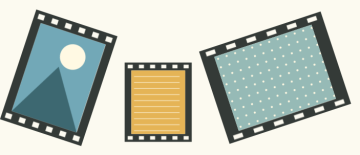
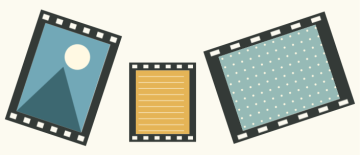
Check every method example for visible bounds

diff --git a/tests/creation-library.test.js b/tests/creation-library.test.js
@@ -49,6 +49,21 @@ for(const template of templateCatalog.templates)test('template compiles through 
 for(const method of techniqueCatalog.methods)test('technique transaction is executable: '+method.id,async()=>{
  const {parameters,before}=techniqueExample(method),doc=await document(exampleMaterials),compiled=compileTechnique({methodId:method.id,parameters,materials:exampleMaterials});
  const result=apply(doc,[...before,...compiled.operations],exampleMaterials);assert.equal(result.changed,true);assert.equal(describeTechnique(method.id).illustration.id,method.id);
+ if(!compiled.report.groupId)return;
+ const page=result.document.page,group=page.layers.find(node=>node.id===compiled.report.groupId),box=worldBox(page,group.id),angle=box.rotation*Math.PI/180;
+ const pageHalfX=(Math.abs(Math.cos(angle))*box.w+Math.abs(Math.sin(angle))*box.h)/2;
+ const pageHalfY=(Math.abs(Math.sin(angle))*box.w+Math.abs(Math.cos(angle))*box.h)/2;
+ assert.ok(box.cx-pageHalfX>=-.25&&box.cx+pageHalfX<=page.canvas.width+.25,method.id+' page width');
+ assert.ok(box.cy-pageHalfY>=-.25&&box.cy+pageHalfY<=page.canvas.height+.25,method.id+' page height');
+ for(const child of group.children){
+  const cb=worldBox(page,child.id),relative=(cb.rotation-box.rotation)*Math.PI/180;
+  const x=(cb.cx-box.cx)*Math.cos(angle)+(cb.cy-box.cy)*Math.sin(angle);
+  const y=-(cb.cx-box.cx)*Math.sin(angle)+(cb.cy-box.cy)*Math.cos(angle);
+  const dx=(Math.abs(Math.cos(relative))*cb.w+Math.abs(Math.sin(relative))*cb.h)/2;
+  const dy=(Math.abs(Math.sin(relative))*cb.w+Math.abs(Math.cos(relative))*cb.h)/2;
+  assert.ok(x-dx>=-box.w/2-.5&&x+dx<=box.w/2+.5,method.id+'/'+child.id+' group width');
+  assert.ok(y-dy>=-box.h/2-.5&&y+dy<=box.h/2+.5,method.id+'/'+child.id+' group height');
+ }
 });
 test('missing slots remain empty; unknown source and repeated material are rejected',()=>{
  const t=templateCatalog.templates[0],paper={width:148,height:210},s=materialSlots(t);

diff --git a/src/creation-library/examples.js b/src/creation-library/examples.js
@@ -11,7 +11,7 @@ export function techniqueExample(method){
  const p={id:'demo',at:[72,88]},before=[];
  if(method.recipe==='title')p.text='收集小美好';
  if(method.recipe==='accent'&&method.defaults.motif==='materials')p.aliases=['m1','m2'];
- if(method.recipe==='film')p.aliases=['m1','m2','m3'];
+ if(method.recipe==='film'){p.aliases=['m1','m2','m3'];p.at=[74,88];}
  if(method.recipe==='materials'){p.aliases=['m1','m2','m3'];if(method.defaults.captionPosition)p.caption='一片颜色，一段小记。';}
  if(method.recipe==='tape'){
   p.aliases=['m4'];

diff --git a/docs/CREATION_LIBRARY_AUDIT.md b/docs/CREATION_LIBRARY_AUDIT.md
@@ -47,6 +47,7 @@
 - 关键词高亮与圈注：词组换行后按实际占用行分别生成可编辑的底色或细圈，行间空白不再被一整块装饰跨越。已检查长词组的本机渲染；不同字体的精确轮廓仍以实际预览为准。
 - 图注与记录条目：组合高度改用 Scene 同一套确定性文字测量；长中文、英文和双栏条目以实际节点高度核对，不截字也不预留多余整行。已抽看更新后的清单、双栏和图文示意。
 - 胶带：单段与双角示意现在含实际照片、纸片或便签，能检查覆盖关系；可为每段指定局部位置、角度和长度。组合边界包含旋转后的整段胶带，默认与整体旋转场景均以 Scene 几何核对，实体来源保持真实尺寸。
+- 方法示例边界：72 个现有用法的真实 Scene 事务逐项检查页面边界和每个子元素的组合边界。胶片组示例原先越出纸边约 0.1 像素，已内移并重生成示意；此检查只约束示例，不限制用户有意做出出血排版。
 - 纸片：已有撕纸、开窗、分裁与露边。窗芯复用与平面纸条穿插现有多步配方、示意及几何验收；跨边文字与更多复杂余料重组仍需补充真实例子。真实折页、口袋不属于当前平面工具能力。
 - 图案：花瓣、星角、箭头、花边和重复图案已有参数；仍需针对稀疏、密集与小字号场景检验是否抢占主体。
 - 图文和双页：现有方法以局部组为主，跨页非对称叙事和围绕主体的多组关系需要在模板重建阶段验证，不能以单组工具替代整页设计。
